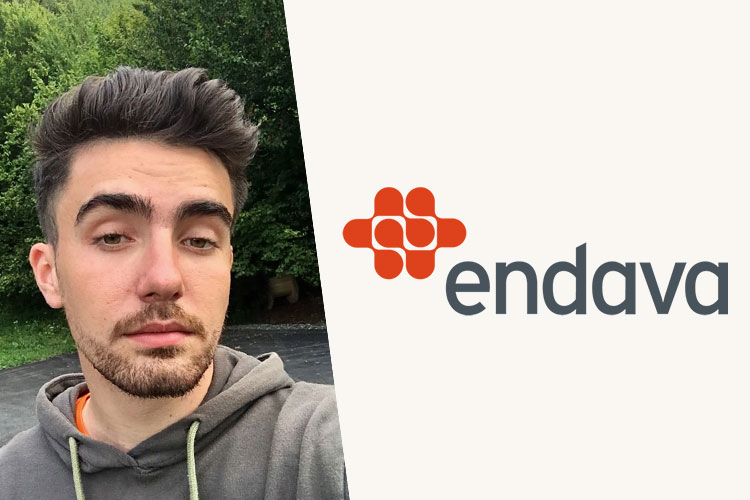
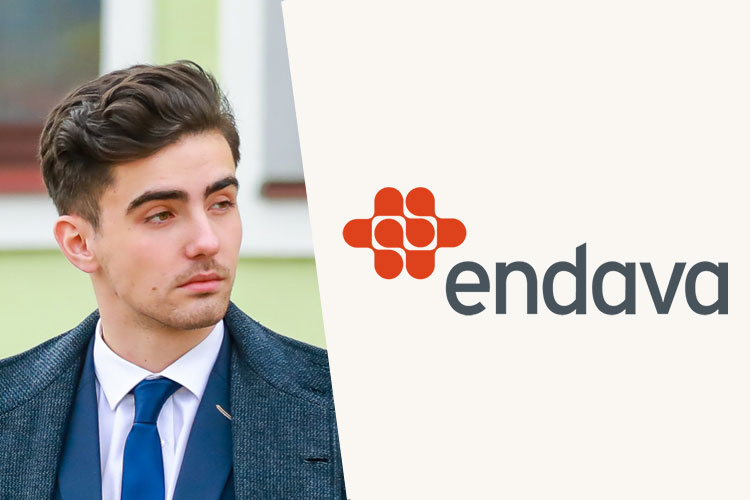
add contact page features + change home page cv photo + .ico for pages

diff --git a/contact.html b/contact.html
@@ -18,6 +18,8 @@
     <link href="//fonts.googleapis.com/css?family=Open+Sans:300,300i,400,400i,600,600i,700,700i,800,800i" rel="stylesheet">
     <!-- //online-fonts -->
 
+    <link rel="icon" href="images/cv-ico.ico">
+
 	<script src="js/index.js"></script>
 
 </head>
@@ -47,13 +49,98 @@
         <!-- banner -->
         <div class="banner-content-w3pvt">
             <div class="banner-w3layouts-info text-center">
-                <h3>Still got work to do !</h3>
-                <h3>Coming soon...</h3>
+                <h3>Send me a message !</h3>
             </div>
         </div>
 
         <!-- //banner -->
     </div>
+
+<!-- banner-bottom -->
+<section class="banner-bottom py-5">
+    <div class="container py-md-4">
+        <h3 class="tittle-w3layouts two text-center">Contact Me</h3>
+        <div class="comment-top mt-5 row">
+            <div class="col-lg-5 comment-bottom w3pvt_mail_grid-img">
+                <img class="img-fluid" src="images/apply.jpg" alt="">
+            </div>
+            <div class="col-lg-7 comment-bottom w3pvt_mail_grid_right">
+                <form action="#" method="post">
+                    <div class="row">
+
+                        <div class="col-lg-6 form-group">
+                            <label>First Name</label>
+                            <input class="form-control" type="text" name="Name" placeholder="" required="">
+                        </div>
+                        <div class="col-lg-6 form-group">
+                            <label>Last Name</label>
+                            <input class="form-control" type="text" name="Name" placeholder="" required="">
+                        </div>
+                    </div>
+                    <div class="row">
+                        <div class="col-lg-6 form-group">
+                            <label>Email</label>
+                            <input class="form-control" type="email" name="Email" placeholder="" required="">
+                        </div>
+                        <div class="col-lg-6 form-group">
+                            <label>Phone Number</label>
+                            <input class="form-control" type="text" name="number" placeholder="" required="">
+                        </div>
+
+                    </div>
+                    <div class="form-group">
+                        <label>Write Message</label>
+                        <textarea class="form-control" name="Message" placeholder="" required=""></textarea>
+                    </div>
+                    <button type="submit" class="btn submit mt-3">Submit</button>
+                </form>
+            </div>
+
+        </div>
+
+        <ul class="list-unstyled row text-left mt-lg-5 pt-lg-5  pb-lg-3">
+            <li class="col-lg-4 adress-info">
+                <div class="row">
+                    <div class="col-md-3 text-lg-center adress-icon">
+                        <span class="fa fa-map-marker"></span>
+                    </div>
+                    <div class="col-md-9 text-left">
+                        <h6>Location</h6>
+                        <p>Cluj-Napoca, RO </p>
+                    </div>
+                </div>
+            </li>
+
+            <li class="col-lg-4 adress-info">
+                <div class="row">
+                    <div class="col-md-3 text-lg-center adress-icon">
+                        <span class="fa fa-envelope-open-o"></span>
+                    </div>
+                    <div class="col-md-9 text-left">
+                        <h6>Email</h6>
+                        <a href="mailto:razvanmerce@icloud.com">razvanmerce@yahoo.com</a>
+                    </div>
+                </div>
+            </li>
+            <li class="col-lg-4 adress-info">
+                <div class="row">
+                    <div class="col-md-3 text-lg-center adress-icon">
+                        <span class="fa fa-mobile"></span>
+                    </div>
+                    <div class="col-md-9 text-left">
+                        <h6>Phone Number</h6>
+                        <p>+40748372960</p>
+                    </div>
+                </div>
+            </li>
+        </ul>
+        <div class="map-fo mt-lg-5 mt-4">
+            <iframe src="https://www.google.com/maps/embed?pb=!1m18!1m12!1m3!1d59213.092707155025!2d23.585329010156773!3d46.770169024036235!2m3!1f0!2f0!3f0!3m2!1i1024!2i768!4f13.1!3m3!1m2!1s0x47490c1f916c0b8b%3A0xbbc601c331f148b!2sCluj-Napoca!5e0!3m2!1sro!2sro!4v1622401648240!5m2!1sro!2sro" width="600" height="450" style="border:0;" allowfullscreen="" loading="lazy"></iframe>
+        </div>
+
+    </div>
+</section>
+<!-- //banner-bottom -->
 
     <!-- footer -->
     <footer class="footer-content text-center py-5">
@@ -75,7 +162,7 @@
                     </li>
                     <li class="mx-4">
                         <p>
-                            <span class="fa fa-phone mr-2"></span>+1234567890
+                            <span class="fa fa-phone mr-2"></span>+40748372960
                         </p>
                     </li>
                     <li>

diff --git a/index.html b/index.html
@@ -19,6 +19,8 @@
     <link href="//fonts.googleapis.com/css?family=Open+Sans:300,300i,400,400i,600,600i,700,700i,800,800i" rel="stylesheet">
     <!-- //online-fonts -->
 
+    <link rel="icon" href="images/cv-ico.ico">
+
 	<script src="js/index.js"></script>
 
 </head>
@@ -100,7 +102,7 @@
                     </li>
                     <li class="mx-4">
                         <p>
-                            <span class="fa fa-phone mr-2"></span>+1234567890
+                            <span class="fa fa-phone mr-2"></span>+40748372960
                         </p>
                     </li>
                     <li>
